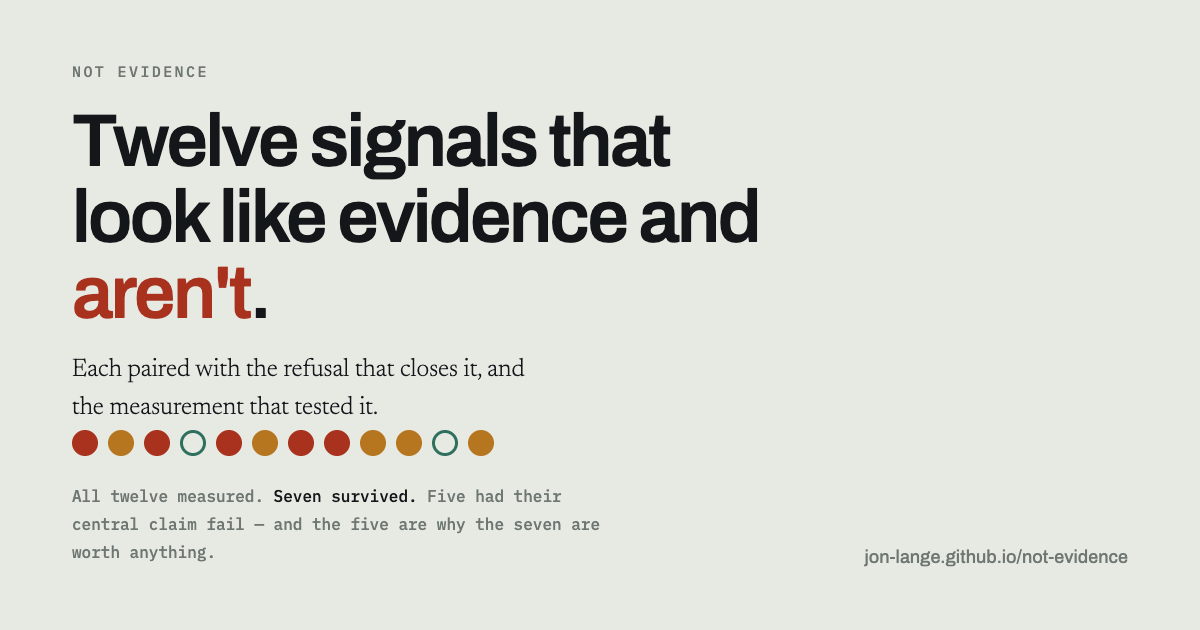
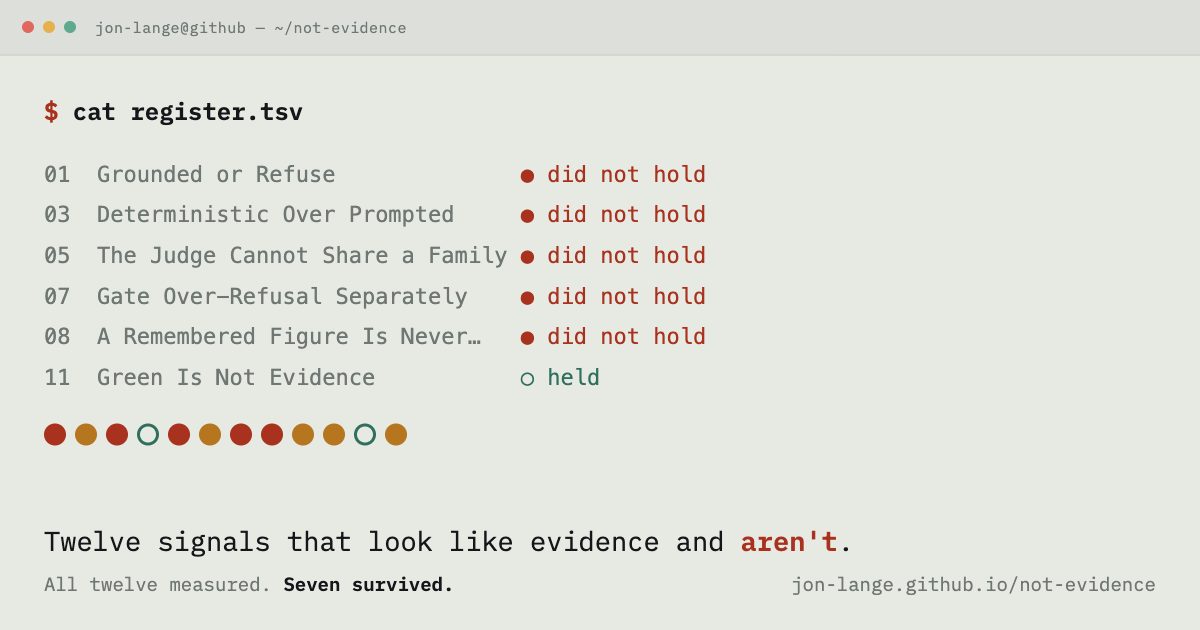
design: OG card matches the terminal the site actually is
The old card was a dot strip and a headline; the site is now a transcript.
An image that no longer resembles the page it fronts is a small lie about
what the reader is about to open.

The alt text moved with it. It described twelve dots because twelve dots
were what the image contained -- and would have kept describing them after
the image changed, which is the failure this catalogue is about.

Claude-Session: https://claude.ai/code/session_01Sj8QYoUCq3vo5c4MxNzXqQ

diff --git a/site/build.py b/site/build.py
@@ -90,7 +90,7 @@ PAGE = """<!doctype html>
 <meta property="og:image" content="{root}og.png">
 <meta property="og:image:width" content="1200">
 <meta property="og:image:height" content="630">
-<meta property="og:image:alt" content="Twelve signals that look like evidence and aren't. Twelve dots showing each entry's verdict: five failed, five narrowed, two confirmed.">
+<meta property="og:image:alt" content="A terminal running cat register.tsv, listing entries against the verdict each earned, above twelve dots showing all of them: five failed, five narrowed, two confirmed.">
 <meta name="twitter:title" content="{title}">
 <meta name="twitter:description" content="{desc}">
 <style>
